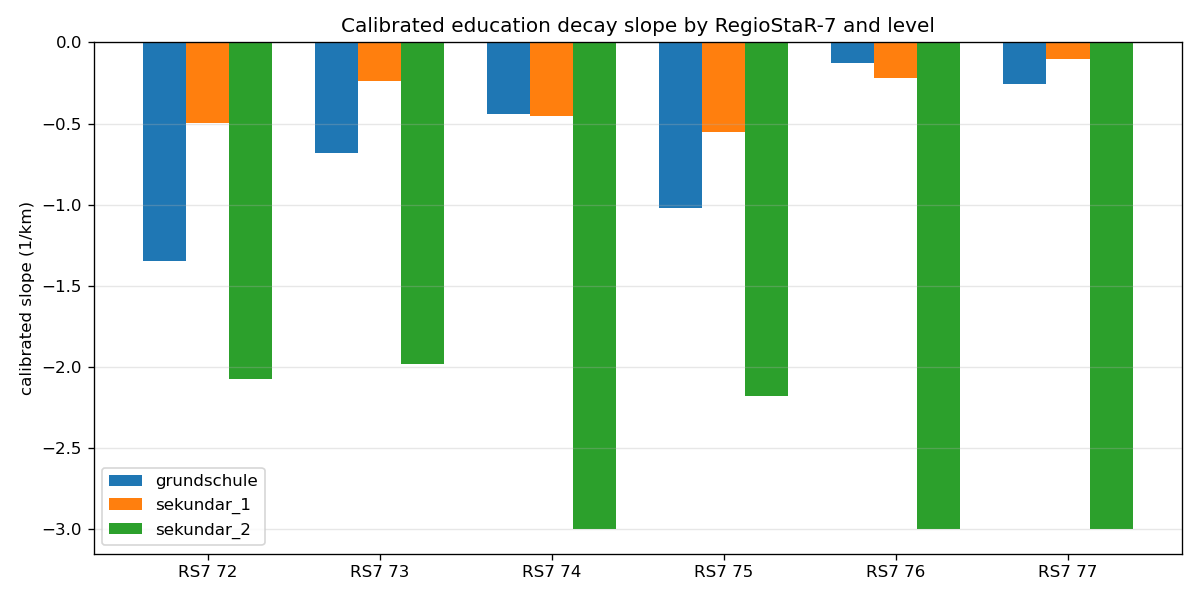
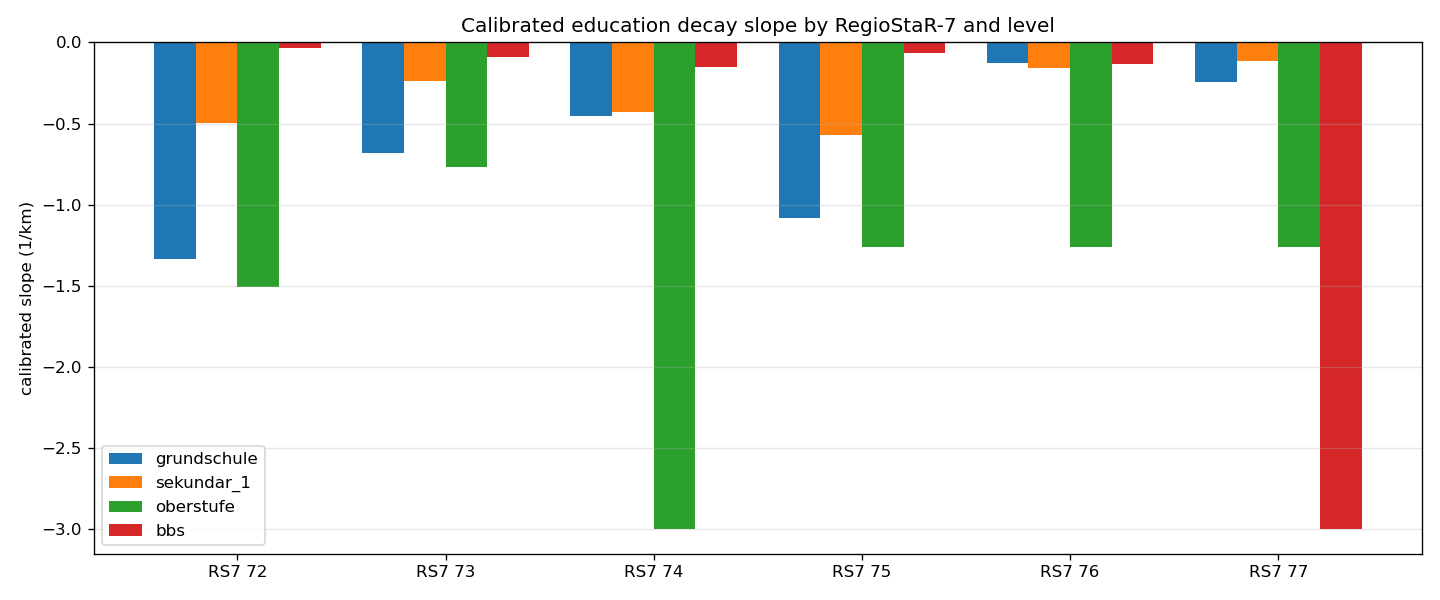
docs(education-calibration): refresh evaluation + document oberstufe/bbs split
Regenerated calibration_results.csv / figures / summary for the 4-level model.
grundschule, sekundar_1 and bbs hit their targets across RS7 (bbs benchmarked
against the Destatis MZ 2024 national mean ~15.8 km; RS7 77 floors at ~20 km as
the nearest rural BBS); oberstufe converges for the larger cells, tiny rural
cells are shrinkage-regularised. CLAUDE.md updated for the oberstufe/bbs split,
education_bbs_share, the Destatis BBS benchmark and the bisection/regularisation.

diff --git a/CLAUDE.md b/CLAUDE.md
@@ -186,20 +186,24 @@ capacities in Python is prohibited - change the xlsx source or
 `braunschweig/data/schools/typing.py` and re-run the script.
 
 **Age -> level + capacity.** `braunschweig.data.schools.typing` maps each LSN
-Schulgliederung (SGL) code to a level and sums the matching pupil counts:
-Primarbereich (SGL 00,01,03,04) -> `grundschule` (6-9); Haupt/Real/Gym-SekI/IGS/
-KGS (11-19) plus the Oberschule/Foerderschule block (40-69) -> `sekundar_1`
-(10-15); Gym/IGS/KGS Sek II (23,24,28,29) **plus all BBS pupils** -> `sekundar_2`
-(16-19). Adult forms (Abendgymnasium 30, Kolleg 31) are excluded. The
-Gymnasium/Realschule/Hauptschule mix emerges automatically from the real
-per-level capacity shares (no school-track choice is modelled). Note that the
+Schulgliederung (SGL) code to one of FOUR school levels and sums the matching
+pupil counts: Primarbereich (SGL 00,01,03,04) -> `grundschule` (6-9);
+Haupt/Real/Gym-SekI/IGS/KGS (11-19) plus the Oberschule/Foerderschule block
+(40-69) -> `sekundar_1` (10-15); Gym/IGS/KGS Sek II (23,24,28,29) -> `oberstufe`
+(academic upper secondary); all BBS pupils -> `bbs` (vocational). Adult forms
+(Abendgymnasium 30, Kolleg 31) are excluded. Age 16-19 pupils are split per
+person between `oberstufe` and `bbs` by `education_bbs_share` (default 0.681 =
+NDS enrollment BBS 29336 / (BBS 29336 + Oberstufe 13745)). The split matters
+because the two have very different trip lengths: BBS are sparse with a regional
+catchment (long trips), the gymnasiale Oberstufe is local. The
+Gymnasium/Realschule/Hauptschule mix within a level emerges automatically from
+the real per-level capacity shares (no school-track choice is modelled). Note the
 gravity age bands (0-5 / 6-9 / 10-15 / 16-19 / 20+) reclassify the boundary ages
 relative to the legacy OSM sampler's 0-6 / 7-17 / 18+ split: with the flag ON,
 age 6 moves from kindergarten to `grundschule` and ages 18-19 from university to
-`sekundar_2` (BBS/Oberstufe). This only affects the ON path; the OFF path keeps
-the legacy bands. LSN internal codes
-drop the Land prefix: official AGS-8 = `"03" + AGS6`, Kreis-5 = `"03" + Kreis3`;
-the table is filtered to the ZGB-8 Kreise.
+oberstufe/bbs. This only affects the ON path; the OFF path keeps the legacy
+bands. LSN internal codes drop the Land prefix: official AGS-8 = `"03" + AGS6`,
+Kreis-5 = `"03" + Kreis3`; the table is filtered to the ZGB-8 Kreise.
 
 **The model (capacity-constrained distance decay).** Per level, the assignment is
 a **rectangular doubly-constrained Furness balancing**
@@ -252,27 +256,39 @@ default `None` -> scalar `education_gravity_slope_by_level`, like
 `eqasim-data/data/braunschweig/mid/mid2023_T43_school_distance_by_rs7.csv` seeded
 by `scripts/seed_mid_t43_school_distance.py`, loaded by
 `braunschweig.data.mid.school_distance`). The MiD age groups map 7-10 ->
-grundschule, 11-13 -> sekundar_1, 14-17 -> sekundar_2; MiD routed lengths are
-divided by a detour factor (1.3) to a straight-line target.
+grundschule, 11-13 -> sekundar_1, 14-17 -> `oberstufe`; MiD routed lengths are
+divided by a detour factor (1.3) to a straight-line target. The vocational `bbs`
+level has no per-RS7 MiD target -- BBS distance is benchmarked against the
+**Destatis Mikrozensus 2024** national school-trip distribution by school type
+(`braunschweig.data.mikrozensus.school_distance`, CSV seeded by
+`scripts/seed_mikrozensus_school_distance.py`): the banded BBS distribution gives
+a national straight-line mean of ~15.8 km, applied as the same target to every RS7.
 
 `scripts/calibrate_education_slopes.py` runs the calibration on the 25 % synthesis
 (`cache_bs_25pct`): the WHOLE level is assigned each round (per-pupil slope vector
-by home RS7) and each RS7's mean trip distance is secant-updated toward its target
-(`calibrate_level_per_rs7`). Calibrating cells in isolation is wrong -- the
+by home RS7) and each RS7's mean trip distance is moved toward its target by a
+per-RS7 **bisection** (`calibrate_level_per_rs7`; bisection is stable on the noisy
+means of small rural cells). Calibrating cells in isolation is wrong -- the
 capacity constraint, scaled to a pupil subset, forces filling out-of-catchment
-schools. The committed evaluation (`--output-dir
-eqasim-data/data/braunschweig/mid/education_calibration/`:
-`calibration_results.csv`, two figures, `calibration_summary.md`) shows grundschule
-and sekundar_1 hit the targets; sekundar_2 rural cells (RS7 74/77) sit at the -3.0
-floor -- sparse rural Oberstufe/BBS make the nearest school already ~10 km, and the
-MiD 14-17 band mixes in nearer Sek-I pupils that our 16-19 band excludes, biasing
-the target short. Re-run the script and paste its YAML to update the slopes; do not
-hand-tune.
+schools. Tiny/sparse cells off by > 1.5 km whose slope is NOT at the steep bound
+are **shrinkage-regularised** to the pupil-weighted mean slope of the converged
+cells of the same level; cells AT the steep bound (slope ~ -3.0) are kept -- there
+the target is simply below the nearest-school distance (rural BBS / rural
+Oberstufe), a legitimate structural floor, not noise. The committed evaluation
+(`--output-dir eqasim-data/data/braunschweig/mid/education_calibration/`:
+`calibration_results.csv`, two figures, `calibration_summary.md`) shows
+grundschule, sekundar_1 and bbs hit their targets across RS7 (bbs RS7 77 floors at
+~20 km -- the nearest rural BBS is already that far); oberstufe converges for the
+larger cells, while the tiny rural cells (RS7 75/76/77, ~40-50 pupils at 25 %) are
+regularised and would sharpen at a higher sampling rate. Re-run the script
+(`--bbs-share` controls the upper-secondary split) and paste its YAML to update the
+slopes; do not hand-tune.
 
 Tests: `tests/test_school_typing.py`, `tests/test_school_readers.py`,
 `tests/test_school_facilities.py`, `tests/test_education_gravity_model.py`,
 `tests/test_education_gravity_stage.py`, `tests/test_education_validation.py`,
-`tests/test_mid_school_distance.py`, `tests/test_calibrate_education_slopes.py`,
+`tests/test_mid_school_distance.py`, `tests/test_mikrozensus_school_distance.py`,
+`tests/test_calibrate_education_slopes.py`,
 `tests/test_regiostar_fill.py` (the `ars_to_ags8` helper).
 
 ## Run analysis (post-simulation)

diff --git a/eqasim-data/data/braunschweig/mid/education_calibration/calibration_summary.md b/eqasim-data/data/braunschweig/mid/education_calibration/calibration_summary.md
@@ -1,33 +1,41 @@
-# Education slope calibration vs MiD 2023 Tabelle 43
+# Education slope calibration vs MiD 2023 Tabelle 43 / MZ 2024 BBS
 
 Detour factor (routed -> straight-line): 1.3. Calibrated on the 25% synthesis (cache_bs_25pct); per-pupil slope by home RegioStaR-7, coupled full-level secant.
+
+Levels: grundschule / sekundar_1 / oberstufe use per-RS7 MiD Tab. 43 targets. bbs uses the national Destatis MZ 2024 BBS straight-line mean as a uniform target across all RS7 (rural cells may legitimately exceed it due to school sparsity).
 
 ## Results (straight-line mean school-trip km)
 
 ```
       level  regiostar7  n_pupils  target_km  achieved_mean_km  abs_error_km   slope
-grundschule          72      2956      1.538             1.528         0.010 -1.3446
-grundschule          73      1481      2.308             2.300         0.008 -0.6841
-grundschule          74      1891      3.846             3.834         0.012 -0.4415
-grundschule          75       258      1.538             1.558         0.020 -1.0202
-grundschule          76       203      3.077             3.108         0.031 -0.1253
-grundschule          77       198      3.846             3.811         0.035 -0.2583
- sekundar_1          72      3772      3.077             3.108         0.031 -0.4969
- sekundar_1          73      1949      4.615             4.564         0.051 -0.2368
- sekundar_1          74      2405      6.923             6.761         0.162 -0.4523
- sekundar_1          75       336      3.077             3.053         0.024 -0.5546
- sekundar_1          76       293      4.615             3.569         1.046 -0.2213
- sekundar_1          77       263      6.923             6.700         0.223 -0.0996
- sekundar_2          72      1838      3.077             3.091         0.014 -2.0755
- sekundar_2          73       863      5.385             5.436         0.051 -1.9817
- sekundar_2          74      1040      6.923            10.025         3.102 -3.0000
- sekundar_2          75       150      3.846             2.624         1.222 -2.1791
- sekundar_2          76       179      5.385             5.773         0.388 -3.0000
- sekundar_2          77       138      7.692            13.395         5.703 -3.0000
+grundschule          72      2956      1.538             1.538         0.000 -1.3354
+grundschule          73      1481      2.308             2.298         0.010 -0.6835
+grundschule          74      1891      3.846             3.791         0.055 -0.4507
+grundschule          75       258      1.538             1.541         0.003 -1.0793
+grundschule          76       203      3.077             3.028         0.049 -0.1248
+grundschule          77       198      3.846             3.934         0.088 -0.2412
+ sekundar_1          72      3772      3.077             3.094         0.017 -0.4944
+ sekundar_1          73      1949      4.615             4.558         0.057 -0.2383
+ sekundar_1          74      2405      6.923             6.931         0.008 -0.4303
+ sekundar_1          75       336      3.077             3.082         0.005 -0.5700
+ sekundar_1          76       293      4.615             4.595         0.020 -0.1568
+ sekundar_1          77       263      6.923             6.769         0.154 -0.1160
+  oberstufe          72       574      3.077             2.993         0.084 -1.5100
+  oberstufe          73       292      5.385             5.181         0.204 -0.7650
+  oberstufe          74       354      6.923             8.272         1.349 -3.0000
+  oberstufe          75        40      3.846             6.063         2.217 -1.2588
+  oberstufe          76        50      5.385             3.994         1.391 -1.2588
+  oberstufe          77        43      7.692             9.470         1.778 -1.2588
+        bbs          72      1264     15.839            15.844         0.005 -0.0350
+        bbs          73       571     15.839            15.896         0.057 -0.0898
+        bbs          74       686     15.839            15.855         0.016 -0.1524
+        bbs          75       110     15.839            16.075         0.236 -0.0666
+        bbs          76       129     15.839            15.849         0.010 -0.1346
+        bbs          77        95     15.839            20.389         4.550 -3.0000
 ```
 
 ## Assessment
 
-- Cells within 0.5 km of target: 14 / 18.
-- Cells at the steepest bracket bound (slope = -3.0, school-sparsity floor): 3 (sekundar_2/RS7 74, sekundar_2/RS7 76, sekundar_2/RS7 77).
-- grundschule and sekundar_1 calibrate well. sekundar_2 rural cells (RS7 74/77) cannot reach the MiD target even at the steepest slope: rural upper-secondary schools (Oberstufe/BBS) are sparse, so the nearest school is already far. The MiD 14-17 age band also mixes in Sek-I pupils (ages 14-15, nearer schools) that our 16-19 sekundar_2 band excludes, biasing the target short.
+- Cells within 0.5 km of target: 19 / 24.
+- Cells at the steepest bracket bound (slope = -3.0, school-sparsity floor): 2 (oberstufe/RS7 74, bbs/RS7 77).
+- grundschule and sekundar_1 calibrate well. oberstufe rural cells (RS7 74/77) may not reach the MiD target even at the steepest slope: rural upper-secondary schools (Gymnasium/Oberstufe) are sparse. bbs rural cells legitimately exceed the national MZ 2024 mean due to regional school sparsity -- this is expected and consistent with the longer BBS catchment assumption.
